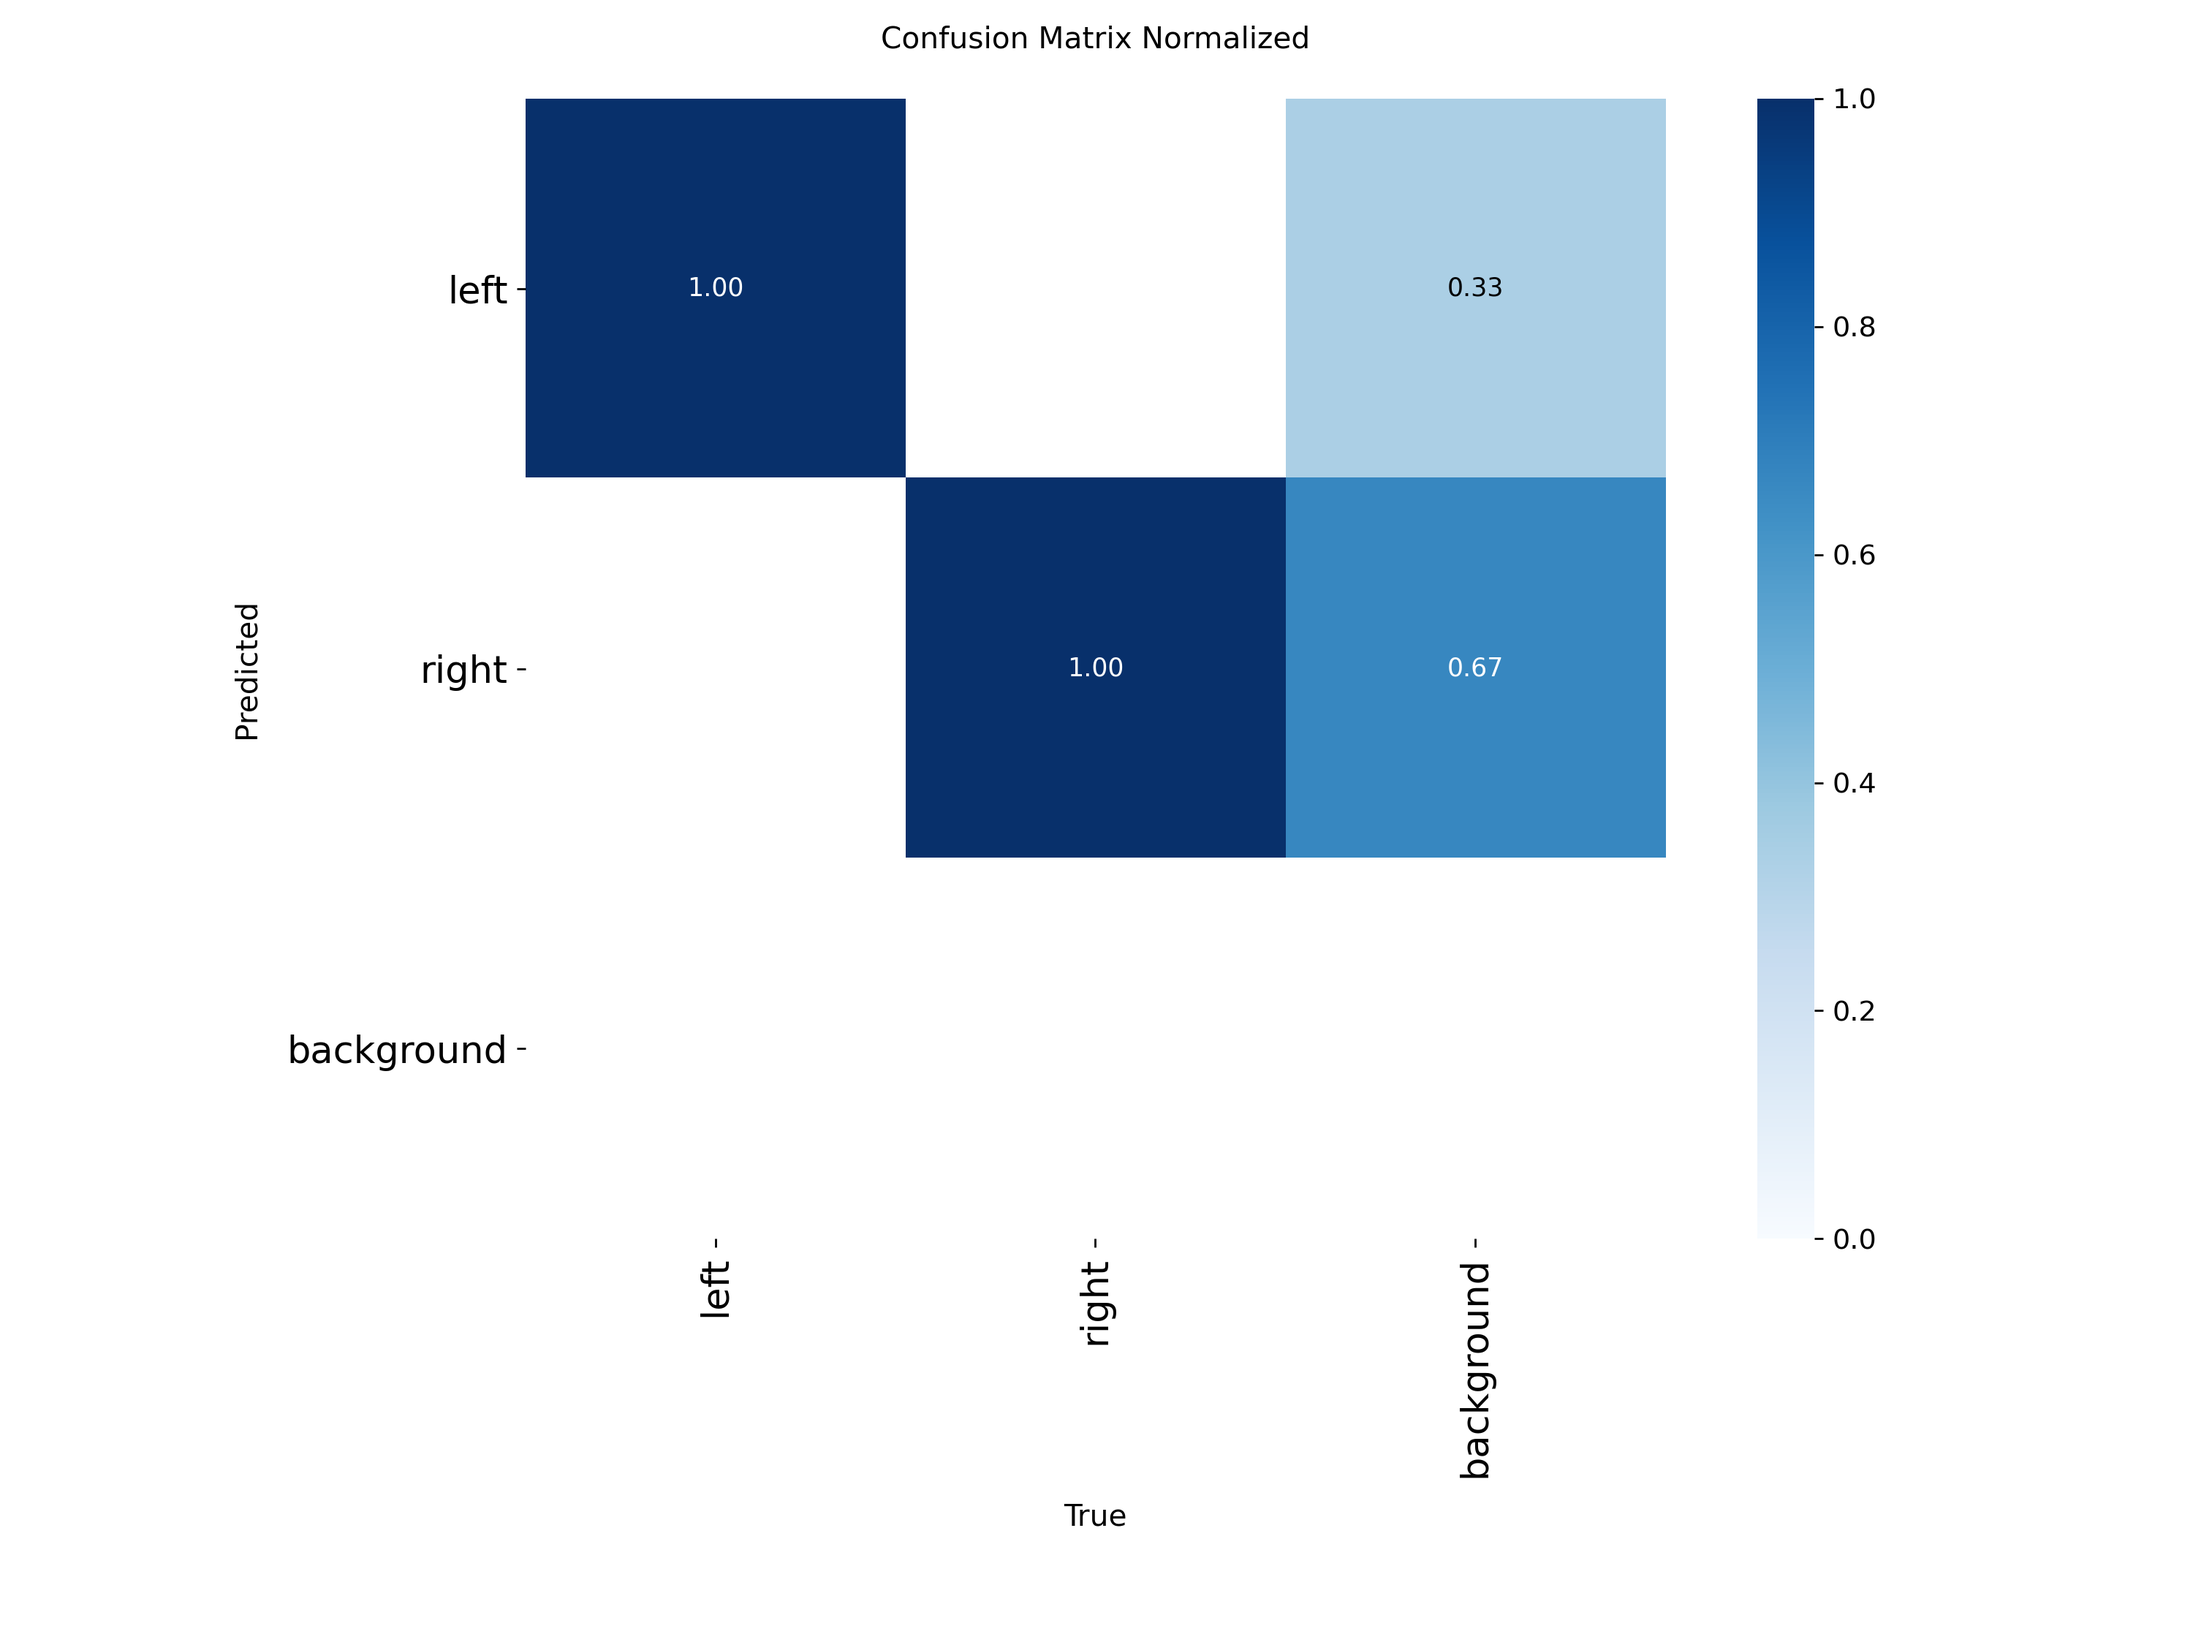
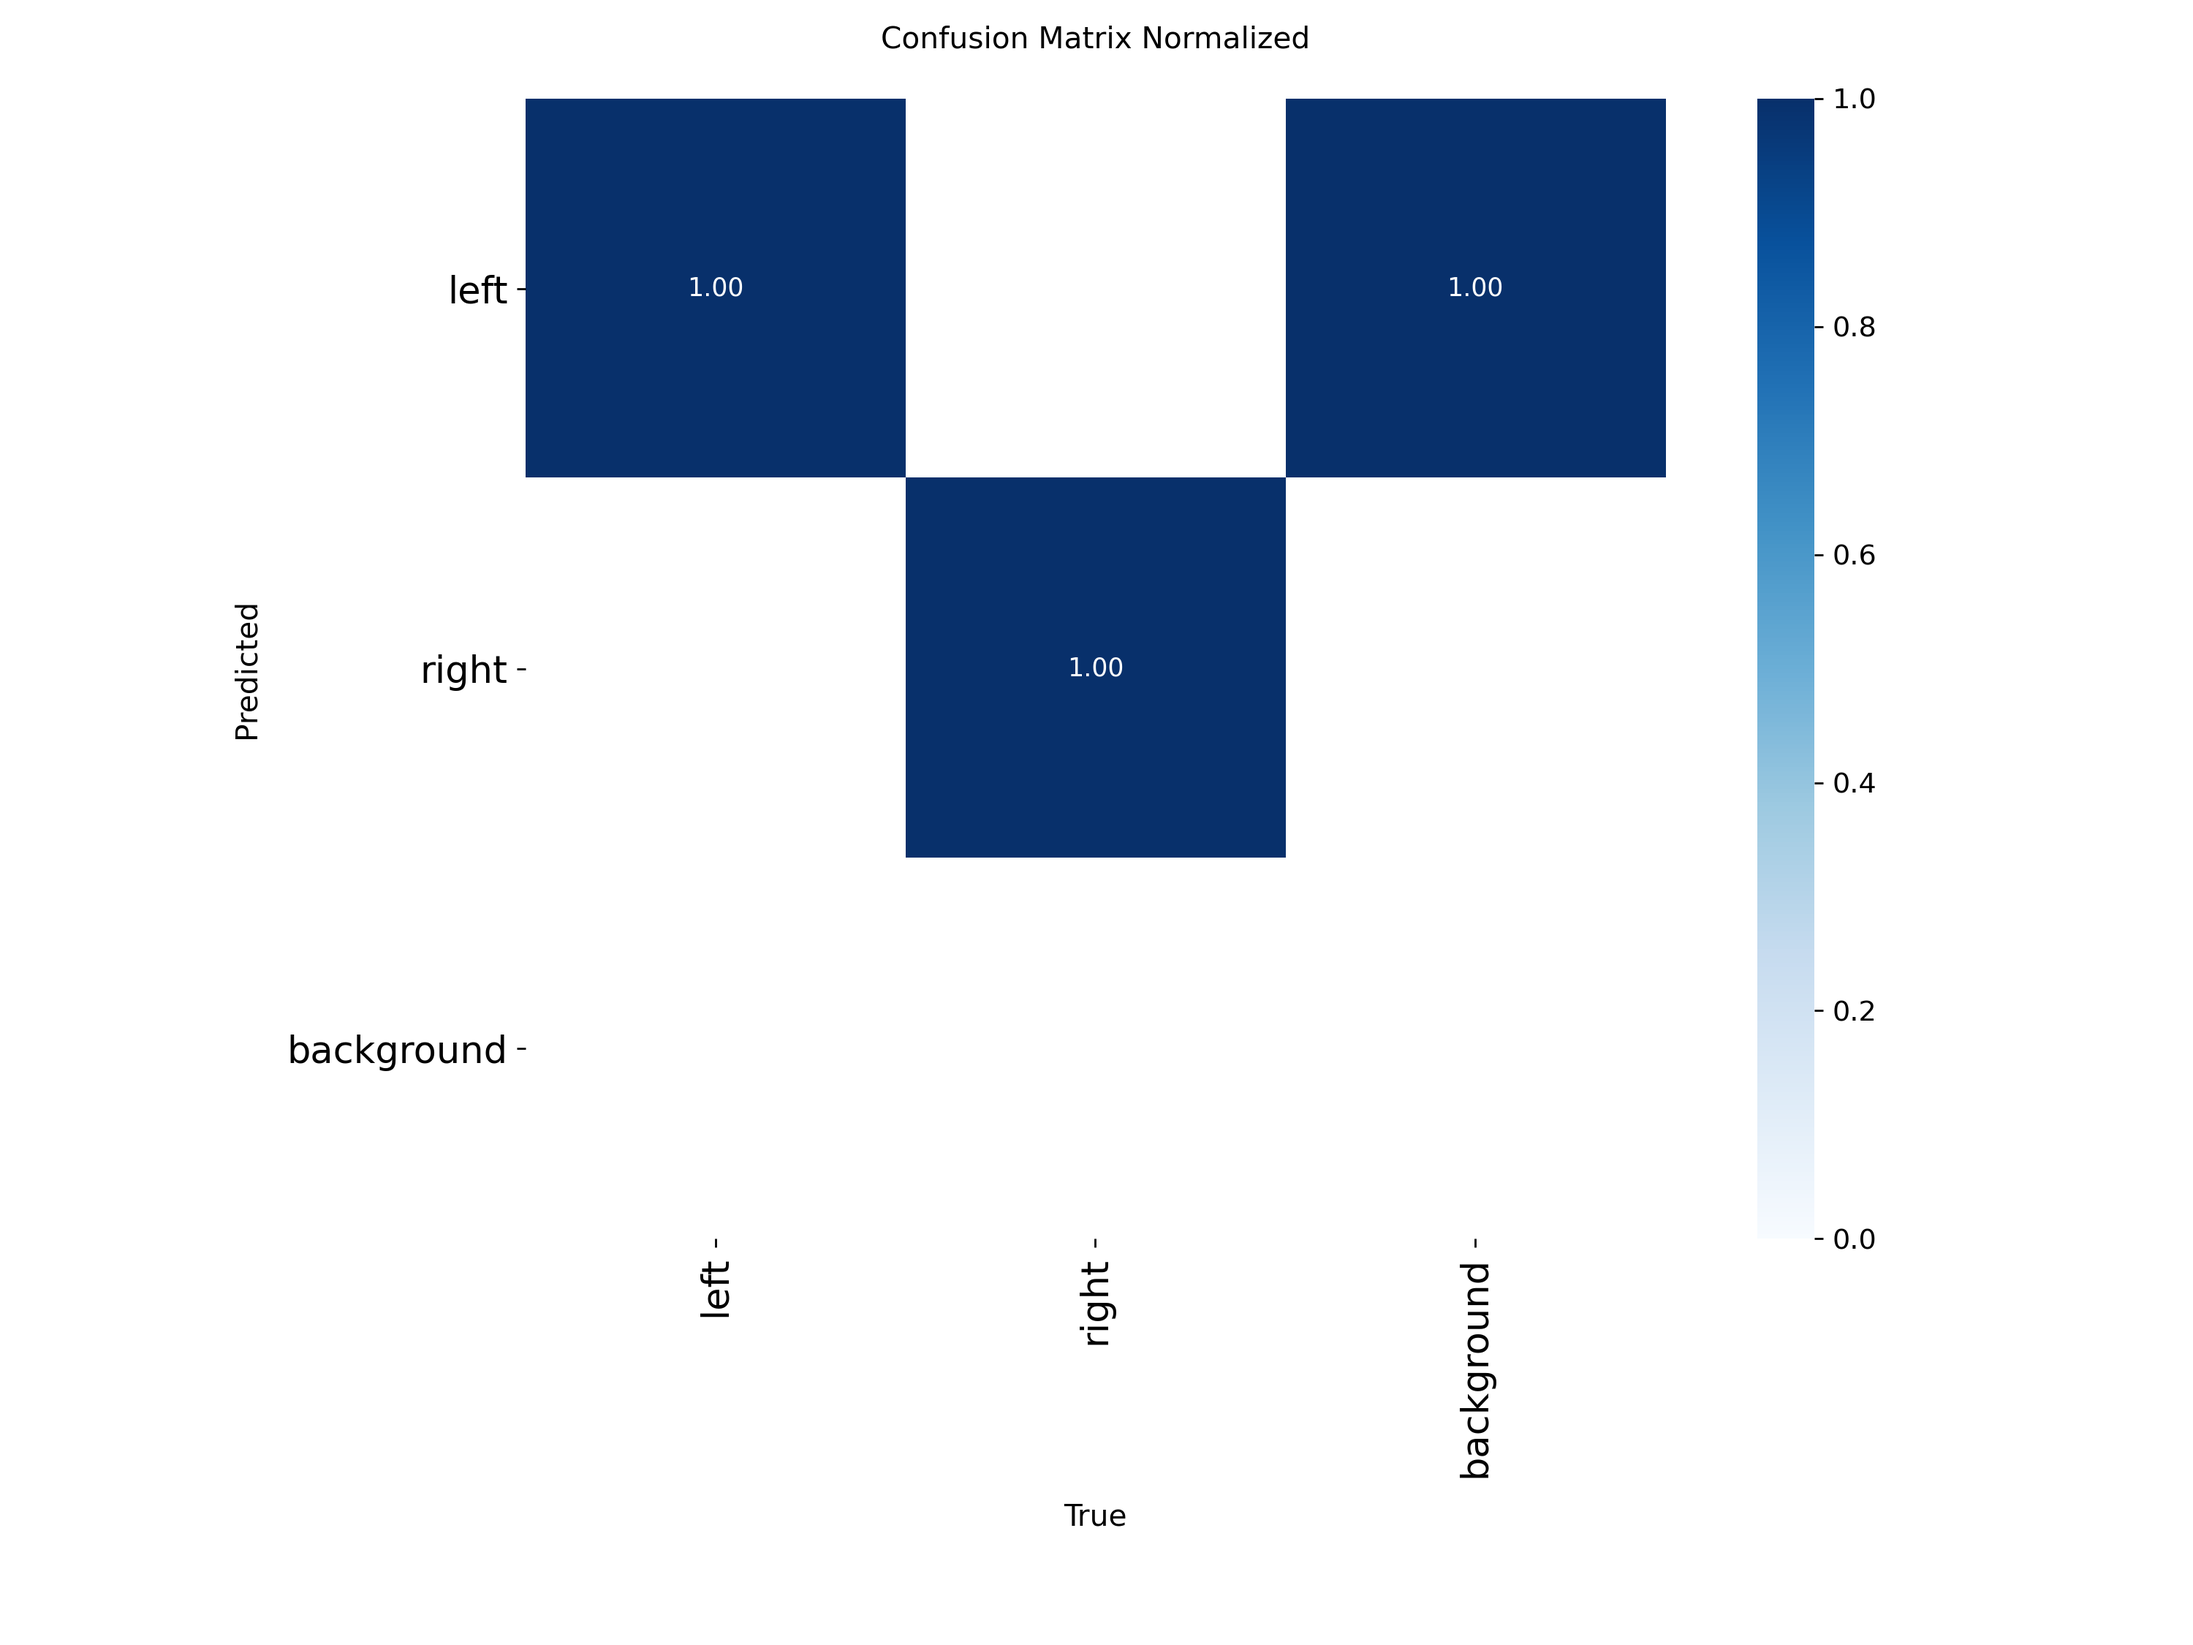
changed testcase confidence

Changed region(s): [[0.589, 0.0622, 0.775, 0.5289]]

diff --git a/testcase.py b/testcase.py
@@ -6,7 +6,7 @@ metrics = model.val(
     data='config.yaml',  
     split='test',        
     batch=16,
-    conf=0.1,
+    conf=0.2,
     iou=0.5,
     plots=True,          
     save_json=True       

diff --git a/capture.py b/capture.py
@@ -14,7 +14,7 @@ while True:
     if not ret:
         break
     
-    results = model(frame,conf=0.5)
+    results = model(frame,conf=0.6)
     
     annotated_frame = results[0].plot()
     
